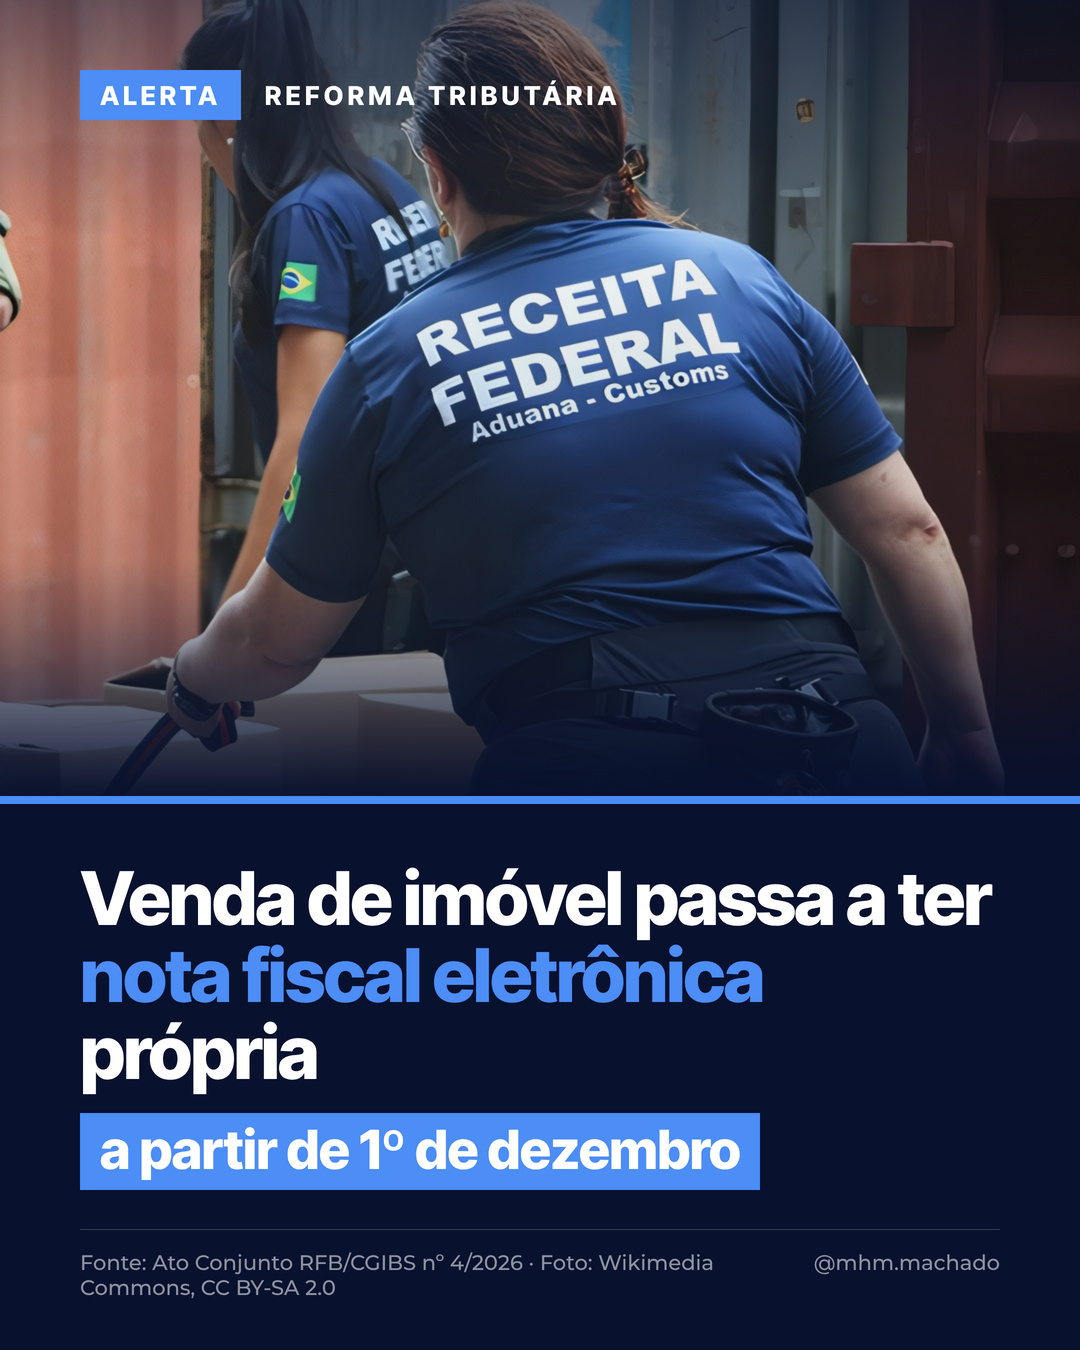
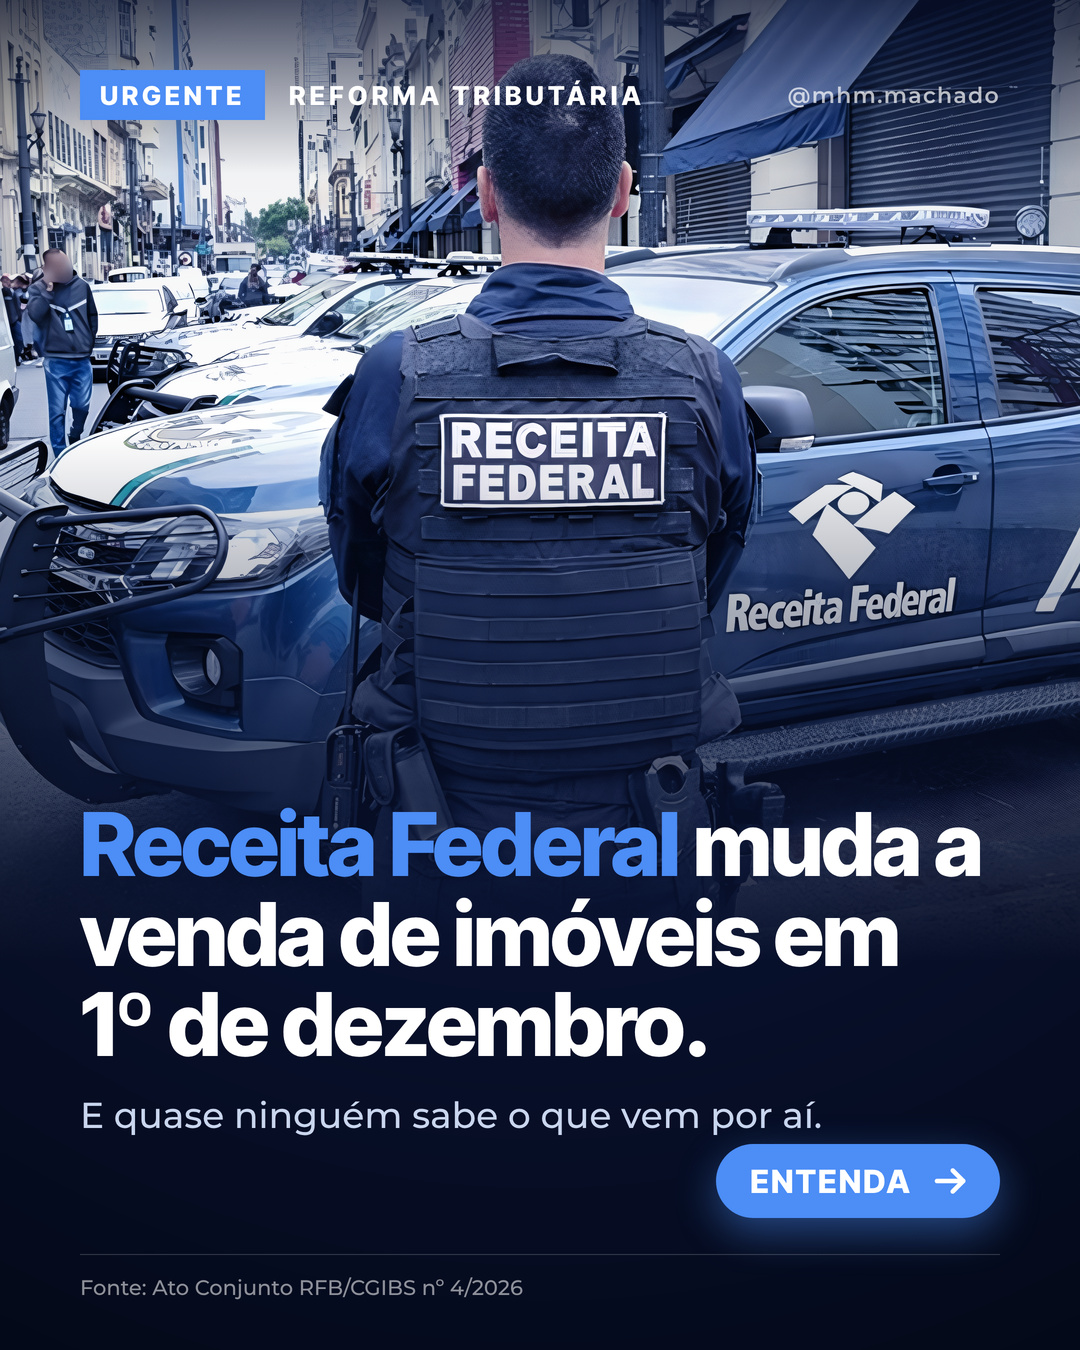
carrossel NF-e ABI: capa nova (agente da Receita Federal, foto do dono ampliada 4x), urgência + Entenda com seta
Claude-Session: https://claude.ai/code/session_018X91MFfPMRMPYSAfb3KdfT

diff --git a/docs/posicionamento/carrosseis/2026-10-23-nfe-abi/laminas.html b/docs/posicionamento/carrosseis/2026-10-23-nfe-abi/laminas.html
@@ -23,18 +23,20 @@ p.t{font-family:Montserrat;font-size:41px;line-height:1.5;font-weight:500;color:
 .fonte svg{width:30px;height:30px;fill:none;stroke:rgba(255,255,255,.6);stroke-width:1.8;stroke-linecap:round;stroke-linejoin:round;flex-shrink:0}
 </style></head><body>
 
-<!-- 1 CAPA -->
-<section class="lamina">
- <img src="img/capa.jpg" style="position:absolute;left:0;top:0;width:1080px;height:800px;object-fit:cover">
- <div style="position:absolute;left:0;right:0;top:0;height:800px;background:linear-gradient(180deg,rgba(8,17,46,.55) 0%,rgba(8,17,46,.05) 30%,rgba(8,17,46,.15) 70%,rgba(8,17,46,1) 100%)"></div>
- <div style="position:absolute;left:0;right:0;top:796px;height:8px;background:var(--azul)"></div>
- <div style="position:absolute;left:0;right:0;top:804px;bottom:0;background:#08112E"></div>
- <div class="topo"><span class="tag">ALERTA</span><span class="sec">REFORMA TRIBUTÁRIA</span></div>
- <div class="b" style="top:860px">
-  <h2 style="font-size:74px">Venda de imóvel passa a ter <em>nota fiscal eletrônica</em> própria</h2>
-  <div style="display:inline-block;margin-top:22px;background:var(--azul);font-weight:800;font-size:54px;padding:4px 20px 8px;letter-spacing:-.01em">a partir de 1º de dezembro</div>
+<!-- 1 CAPA (dono, 2026-10-23: mais misteriosa e urgente, "Receita Federal" escrito, foto enviada pelo dono de agente da Receita, ampliada 4x; "Entenda" com seta) -->
+<section class="lamina" style="background:#08112E">
+ <img src="img/capa-agente.jpg" style="position:absolute;left:0;top:0;width:1080px;height:960px;object-fit:cover">
+ <div style="position:absolute;left:0;top:0;width:1080px;height:960px;background:rgba(31,76,179,.30);mix-blend-mode:color"></div>
+ <div style="position:absolute;left:0;top:0;width:1080px;height:962px;background:linear-gradient(180deg,rgba(8,17,46,.75) 0%,rgba(8,17,46,.05) 18%,rgba(8,17,46,.0) 45%,rgba(8,17,46,.55) 75%,#08112E 100%)"></div>
+ <div style="position:absolute;inset:0;background:radial-gradient(110% 80% at 50% 32%,transparent 45%,rgba(0,0,0,.5) 100%)"></div>
+ <div class="topo"><span class="tag">URGENTE</span><span class="sec">REFORMA TRIBUTÁRIA</span><span class="handle">@mhm.machado</span></div>
+ <div class="b" style="top:800px">
+  <h2 style="font-size:88px;line-height:1.02"><em>Receita Federal</em> muda a venda de imóveis em 1º&nbsp;de&nbsp;dezembro.</h2>
+  <p style="font-family:Montserrat;font-size:36px;line-height:1.35;font-weight:500;color:var(--txt);margin-top:22px">E quase ninguém sabe o que vem por aí.</p>
  </div>
- <div class="fonte" style="bottom:50px"><span>Fonte: Ato Conjunto RFB/CGIBS nº 4/2026 · Foto: Wikimedia Commons, CC BY-SA 2.0</span><span>@mhm.machado</span></div>
+ <div style="position:absolute;right:80px;bottom:132px;display:flex;align-items:center;gap:18px;background:var(--azul);padding:16px 28px 16px 34px;border-radius:999px;font-weight:800;font-size:32px;letter-spacing:.06em;box-shadow:0 14px 40px rgba(76,141,246,.45)">ENTENDA
+  <svg viewBox="0 0 24 24" style="width:42px;height:42px;fill:none;stroke:#fff;stroke-width:2.6;stroke-linecap:round;stroke-linejoin:round"><path d="M4 12h15"/><path d="M13 6l6 6-6 6"/></svg></div>
+ <div class="fonte" style="bottom:50px"><span>Fonte: Ato Conjunto RFB/CGIBS nº 4/2026</span></div>
 </section>
 
 <!-- 2 O QUE É -->
